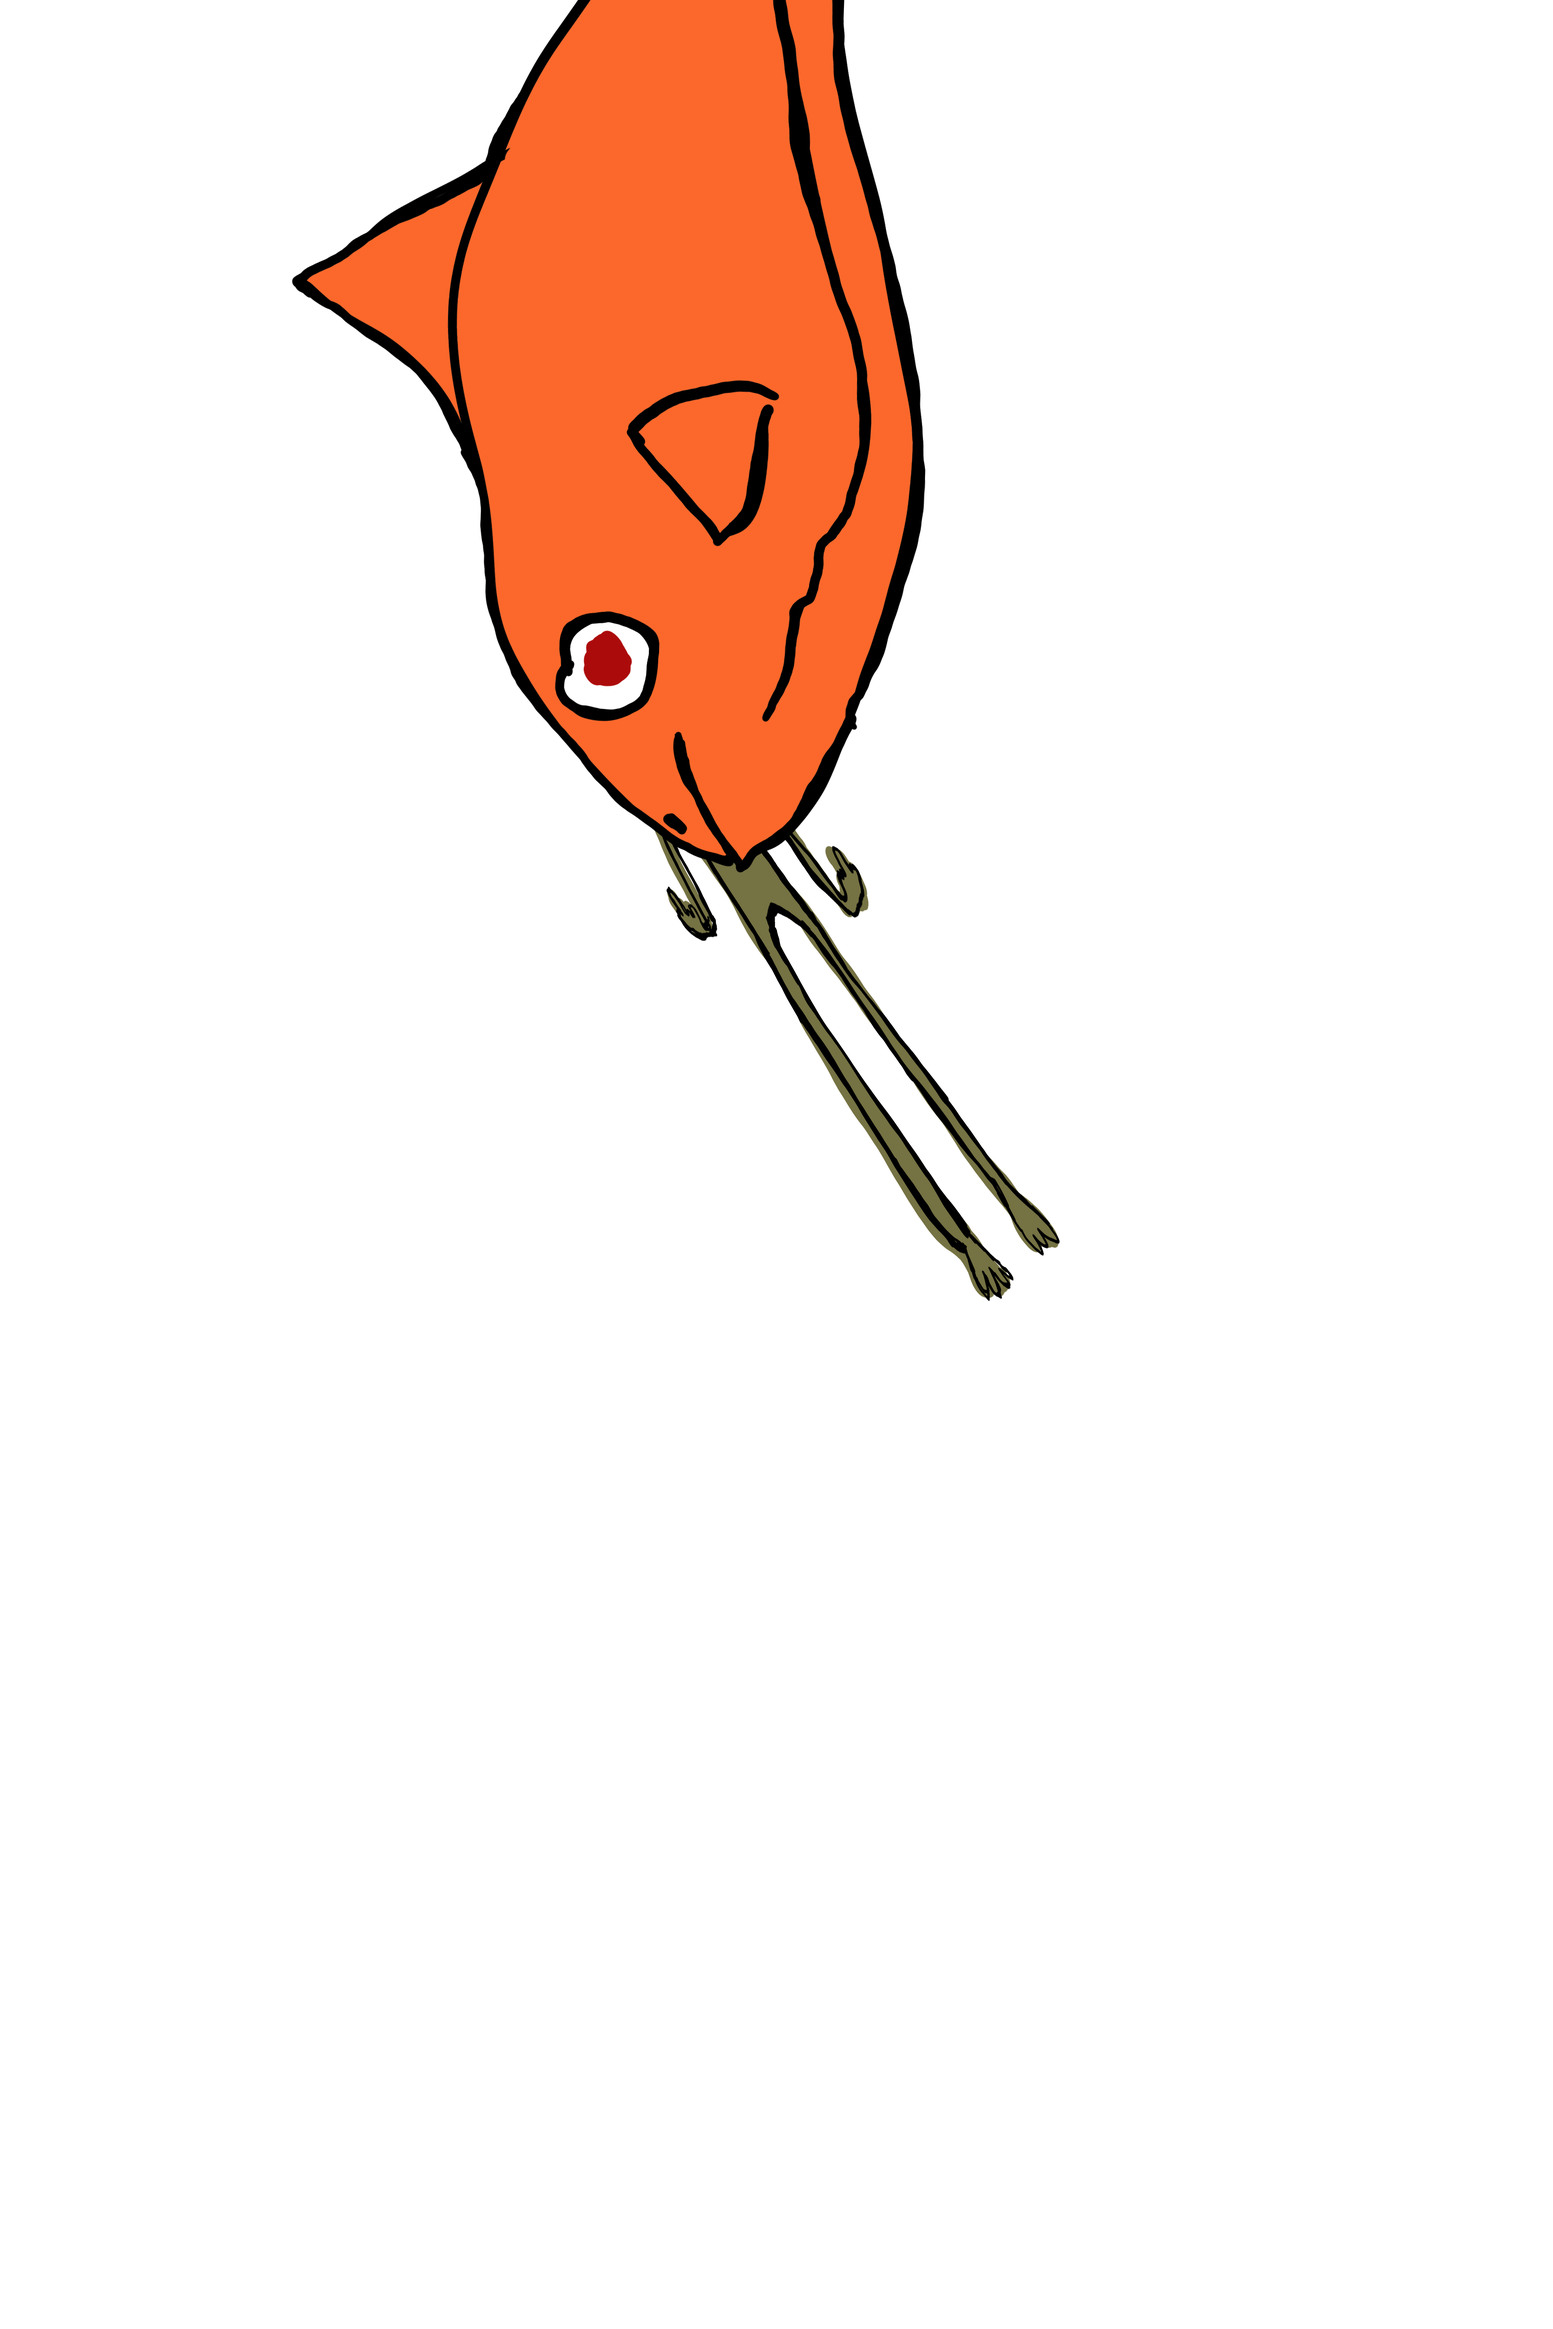
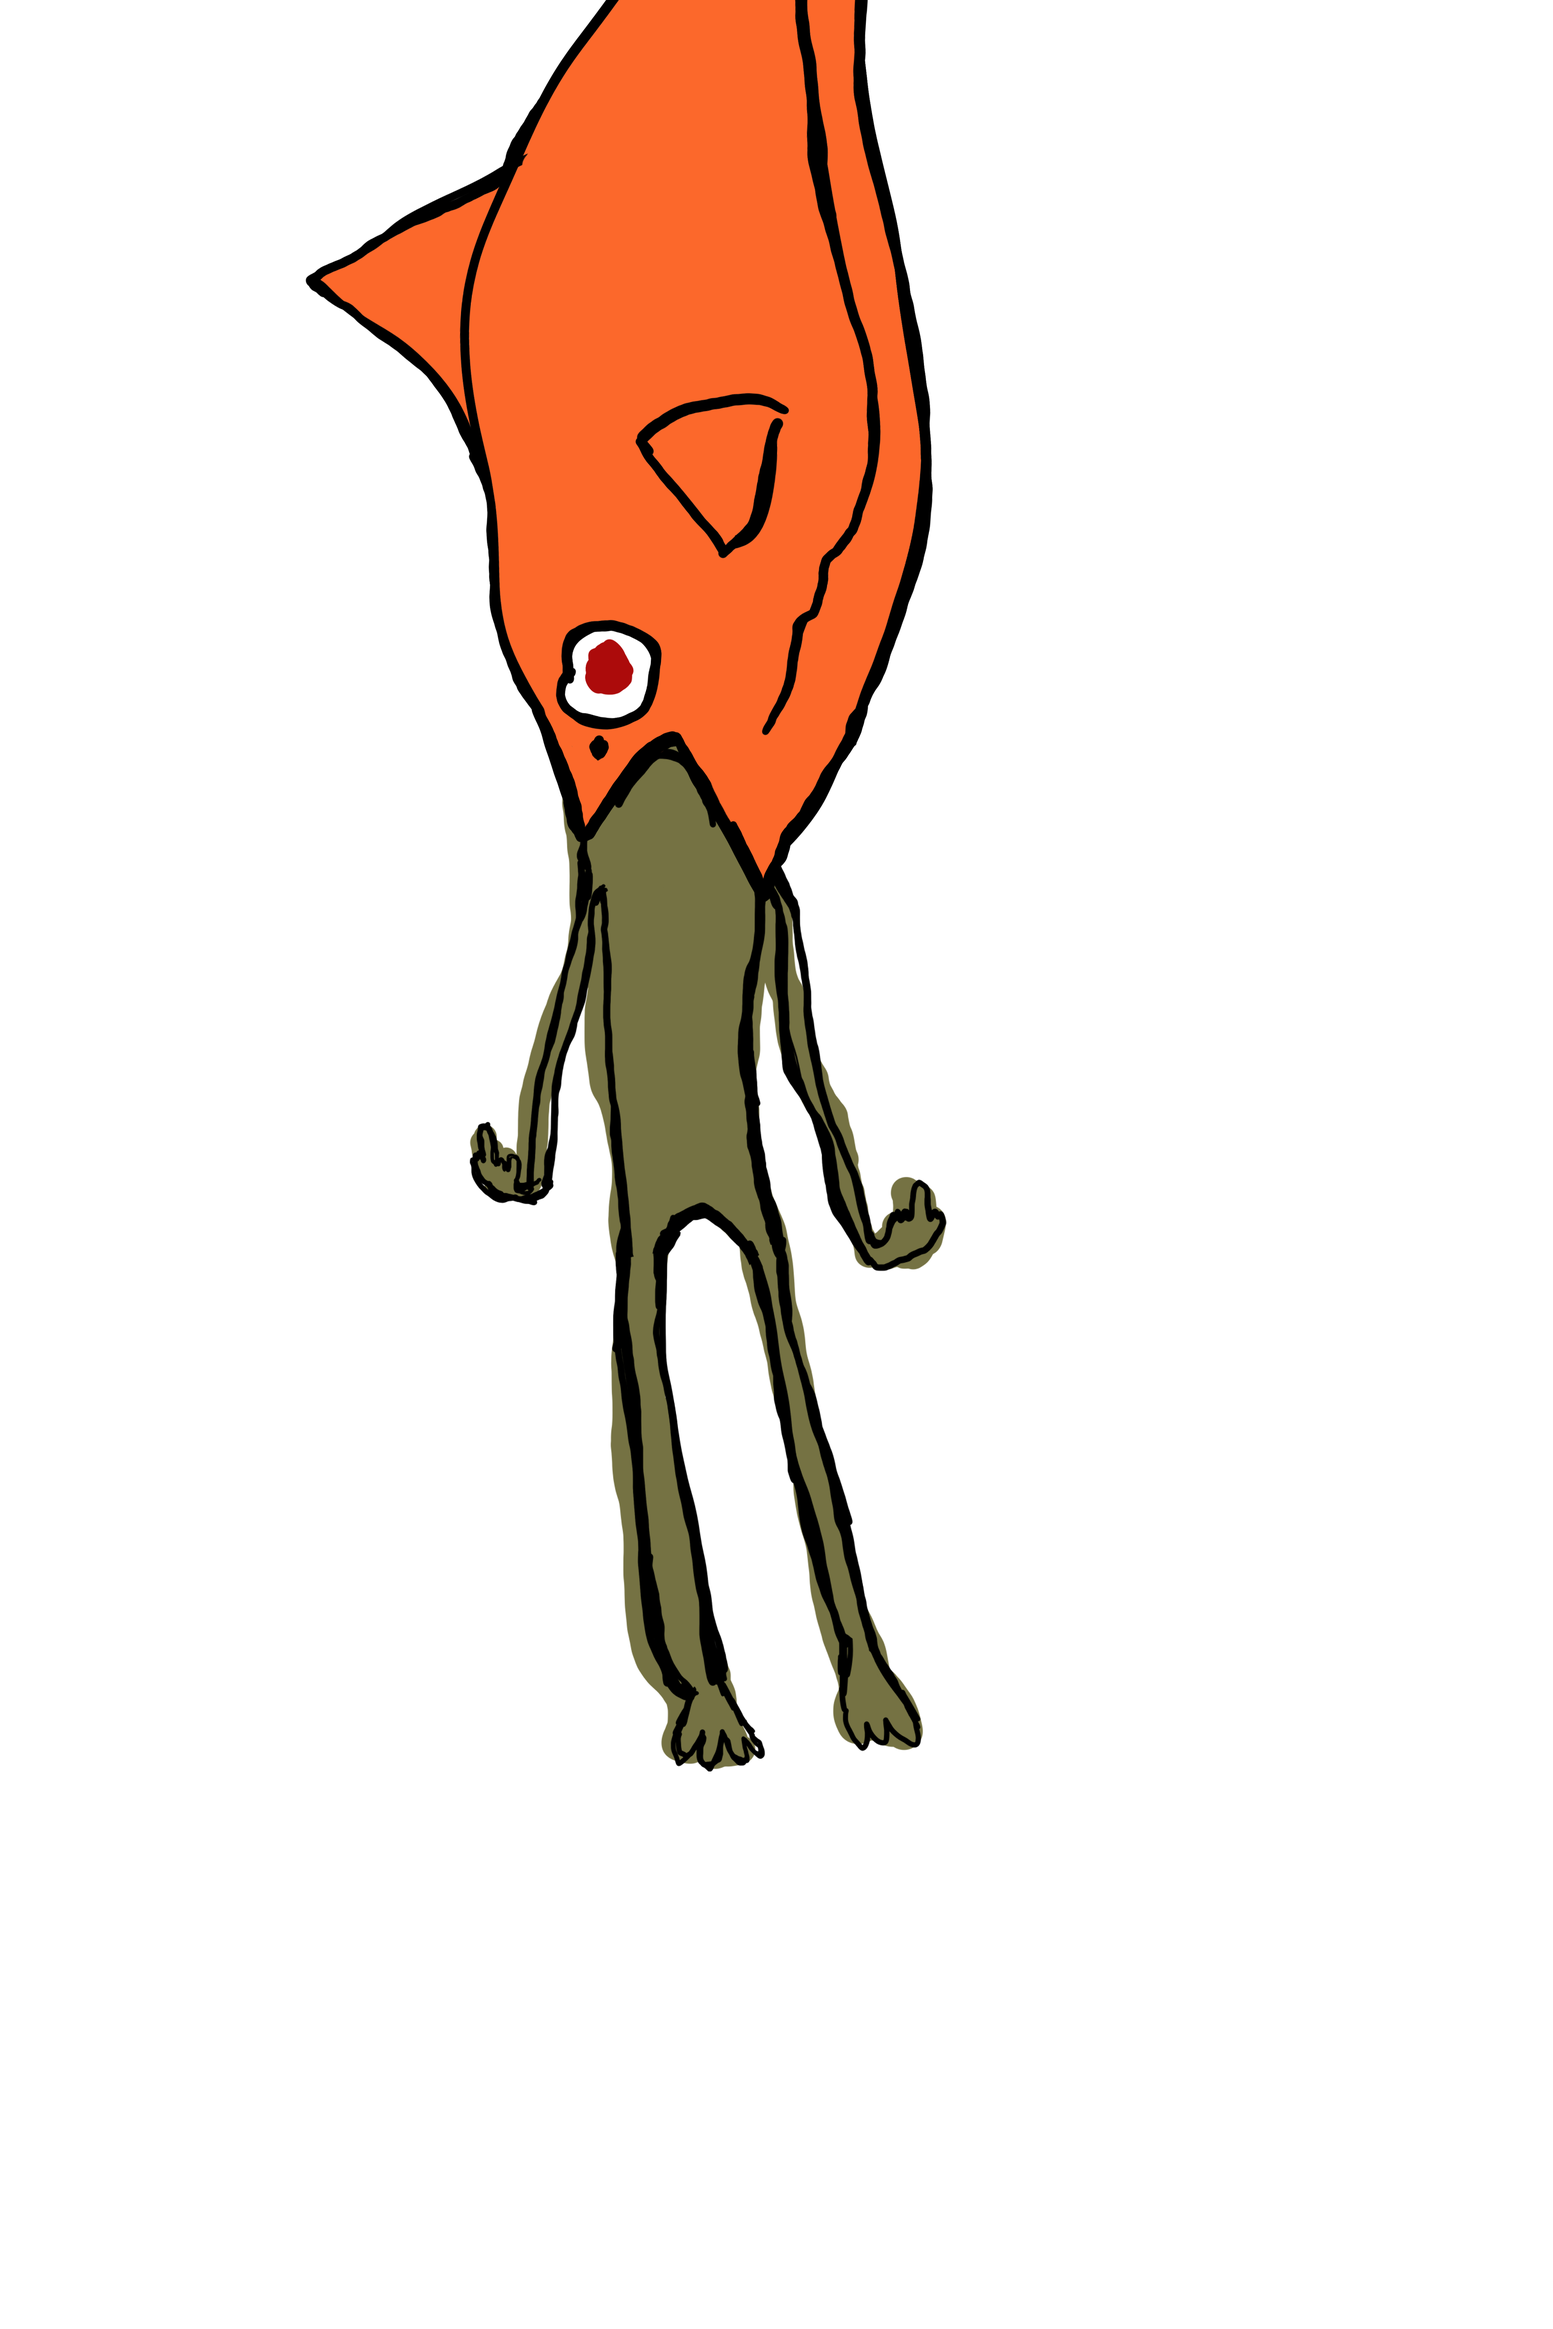
Added color
Added color to the background and did some more optomatiztion on the dessign

Changed region(s): [[0.2812, 0.0, 0.6875, 0.7812], [0.1875, 0.0, 0.4062, 0.2188]]

diff --git a/libraries/phenakistoscope.bundle.js b/libraries/phenakistoscope.bundle.js
@@ -1,3 +1,3 @@
-const FRAME_RATE = 22
+const FRAME_RATE = 20
 
 !function(e){var n={};function t(i){if(n[i])return n[i].exports;var o=n[i]={i:i,l:!1,exports:{}};return e[i].call(o.exports,o,o.exports,t),o.l=!0,o.exports}t.m=e,t.c=n,t.d=function(e,n,i){t.o(e,n)||Object.defineProperty(e,n,{enumerable:!0,get:i})},t.r=function(e){"undefined"!=typeof Symbol&&Symbol.toStringTag&&Object.defineProperty(e,Symbol.toStringTag,{value:"Module"}),Object.defineProperty(e,"__esModule",{value:!0})},t.t=function(e,n){if(1&n&&(e=t(e)),8&n)return e;if(4&n&&"object"==typeof e&&e&&e.__esModule)return e;var i=Object.create(null);if(t.r(i),Object.defineProperty(i,"default",{enumerable:!0,value:e}),2&n&&"string"!=typeof e)for(var o in e)t.d(i,o,function(n){return e[n]}.bind(null,o));return i},t.n=function(e){var n=e&&e.__esModule?function(){return e.default}:function(){return e};return t.d(n,"a",n),n},t.o=function(e,n){return Object.prototype.hasOwnProperty.call(e,n)},t.p="",t(t.s=0)}([function(e,n,t){e.exports=t(1)},function(e,n,t){"use strict";t.r(n);var i=new function(){this.phenakistoscope=void 0,this.ccapturer=void 0,this.p5=void 0,this.gfx=void 0,this.canvas=void 0};function o(e,n){for(var t=0;t<n.length;t++){var i=n[t];i.enumerable=i.enumerable||!1,i.configurable=!0,"value"in i&&(i.writable=!0),Object.defineProperty(e,i.key,i)}}var a=function(){function e(n){!function(e,n){if(!(e instanceof n))throw new TypeError("Cannot call a class as a function")}(this,e),this._total_images_to_load=0,this._loaded_images=0,this._images={},this._image_sequences={}}var n,t,a;return n=e,(t=[{key:"load_image",value:function(e,n){this._total_images_to_load++,this._images[e]=i.p5.loadImage("./assets/"+e+"."+n,this.image_loaded.bind(this))}},{key:"load_image_sequence",value:function(e,n,t){this._total_images_to_load+=t,this._image_sequences[e]=[];for(var i=0;i<t;++i)this._image_sequences[e][i]=loadImage("assets/"+e+"/"+e+"_"+i+"."+n,this.image_loaded.bind(this))}},{key:"draw_image",value:function(e,n,t,i){n.image(this._images[e],t,i)}},{key:"draw_image_from_sequence",value:function(e,n,t,i,o){var a=this._image_sequences[e].length,r=Math.floor(n*a)%a;t.image(this._image_sequences[e][r],i,o)}},{key:"all_images_loaded",value:function(){return this._loaded_images>=this._total_images_to_load}},{key:"image_loaded",value:function(){this._loaded_images++}}])&&o(n.prototype,t),a&&o(n,a),e}();function r(e,n){for(var t=0;t<n.length;t++){var i=n[t];i.enumerable=i.enumerable||!1,i.configurable=!0,"value"in i&&(i.writable=!0),Object.defineProperty(e,i.key,i)}}var s=function(){function e(n){!function(e,n){if(!(e instanceof n))throw new TypeError("Cannot call a class as a function")}(this,e),this._resolution=n,this._output_function=function(){},this._image_loader=new a,this._ccapturer=i.ccapturer,this._dynamic_scale=!1,this._lock_scale=!1,this._pre_render=function(){},this._post_render=function(){},this._draw_slits=!1}var n,t,o;return n=e,(t=[{key:"set_default_values",value:function(e){this._layers=[],this._resolution=e,this._wedge_size=1e3,this._print=!1,this._capture_frame=0,this._slice_count=20,this._direction=-1}},{key:"scale_for_screen",value:function(e){(e=void 0===e||e)&&!this._lock_scale?(setup_new_canvas(min(window.innerWidth,window.innerHeight),min(window.innerWidth,window.innerHeight)),this._dynamic_scale||(window.addEventListener("resize",this.scale_for_screen.bind(this)),this._dynamic_scale=!0)):(window.removeEventListener("resize",this.scale_for_screen.bind(this)),this._dynamic_scale=!1)}},{key:"draw",value:function(){if(this._image_loader.all_images_loaded()){this._pre_render();for(var e=0;e<this._layers.length;e++)this._current_layer=e,push(),this._layers[e].draw_boundaries=this._show_boundaries,this._output_function(this._layers[e]),pop();this._post_render()}}},{key:"render_slits",value:function(){if(this._draw_slits){push(),rotate(-90),stroke(0),noFill(),scale(.5),rotate(360/this._slice_count/2);for(var e=0;e<this._slice_count;e++)rotate(360/this._slice_count),rect(this._wedge_size-this._wedge_size/3,-15,this._wedge_size/3+50,30);pop()}}},{key:"draw_disk_mask",value:function(){push(),fill(255),stroke(0),strokeWeight(this.display_scale),beginShape(),vertex(-10,-10),vertex(width+10,-10),vertex(width+10,height+10),vertex(-10,height+10),beginContour();for(var e=this._wedge_size/2*this.display_scale,n=0;n<100;++n)vertex(width/2+cos(3.6*-n)*e,height/2+sin(3.6*-n)*e);endContour(),endShape(),pop()}},{key:"add_layer",value:function(e){this._layers.push(e),e.parent_pScope=this}},{key:"output_mode",value:function(e){this._output_function=e}},{key:"begin_capture_if_ready",value:function(){0==this._capture_frame&&this._ccapturer.start()}},{key:"capture",value:function(){this._capture_frame<this.slice_count?(this._ccapturer.capture(i.canvas),this._capture_frame++):this._capture_frame>=this.slice_count&&(this._ccapturer.stop(),this._ccapturer.save())}},{key:"set_direction",value:function(e){this._direction=e}},{key:"set_slice_count",value:function(e){this._slice_count=e}},{key:"draw_layer_boundaries",value:function(e){this._show_boundaries=e}},{key:"draw_slits",value:function(e){this._draw_slits=e}},{key:"fill_background",value:function(){var e;(e=this._layers[this._current_layer]).fill_background.apply(e,arguments)}},{key:"load_image",value:function(e,n){this._image_loader.load_image(e,n)}},{key:"load_image_sequence",value:function(e,n,t){this._image_loader.load_image_sequence(e,n,t)}},{key:"draw_image",value:function(e,n,t){this._image_loader.draw_image(e,i.p5,n,t)}},{key:"draw_image_from_sequence",value:function(e,n,t,o){this._image_loader.draw_image_from_sequence(e,o,i.p5,n,t)}},{key:"print",set:function(e){this._print=e},get:function(){return this._print}},{key:"pre_render",set:function(e){this._pre_render=e}},{key:"post_render",set:function(e){this._post_render=e}},{key:"lock_scale",set:function(e){this._lock_scale=e}},{key:"resolution",get:function(){return this._resolution}},{key:"frame",get:function(){return this._frame}},{key:"slice_count",get:function(){return this._slice_count}},{key:"direction",get:function(){return this._direction}},{key:"display_scale",get:function(){return this._print?1:this._resolution/(this._wedge_size+0)}},{key:"slice_angle",get:function(){return 360/this._slice_count}},{key:"wedge_size",get:function(){return this._wedge_size}}])&&r(n.prototype,t),o&&r(n,o),e}(),u=function(e){return function(n){var t,i,o;push(),c(e),n.set_animation_variables(0),push(),n.draw_function(0,0,e),pop(),t=0,i=0,o=2,push(),stroke(255,0,0),line(t,i,t-o,i-o),line(t,i,t+o,i-o),line(t,i,t-o,i+o),line(t,i,t+o,i+o),pop(),pop()}},_=function(e){return function(n,t){t=void 0===t?0:t,push(),c(e),rotate(t),function(e,n){push(),scale(.5);for(var t=e.slice_angle,i=0;i<e.slice_count;i++)push(),rotate(i*t),l(e,n,i),pop();pop()}(e,n),pop(),push(),c(e),e.render_slits(),pop(),push(),e.draw_disk_mask(),pop()}};function c(e){translate(width/2,height/2),scale(e.display_scale,e.display_scale)}function l(e,n,t){push(),n.animation_function(t,n.boundary.low,n.boundary.high),pop(),n.draw_boundry()}var d=function(e){return function(n){push(),this.set_animation_variables(n/(e.slice_count+0)),this.background_function(this.animation_variables,e),this.draw_function(0,0,this.animation_variables,e),pop()}};function h(e){return(h="function"==typeof Symbol&&"symbol"==typeof Symbol.iterator?function(e){return typeof e}:function(e){return e&&"function"==typeof Symbol&&e.constructor===Symbol&&e!==Symbol.prototype?"symbol":typeof e})(e)}function f(e,n){for(var t=0;t<n.length;t++){var i=n[t];i.enumerable=i.enumerable||!1,i.configurable=!0,"value"in i&&(i.writable=!0),Object.defineProperty(e,i.key,i)}}function p(){}var y=function(){function e(n){for(var t=this,o=arguments.length,a=new Array(o>1?o-1:0),r=1;r<o;r++)a[r-1]=arguments[r];!function(e,n){if(!(e instanceof n))throw new TypeError("Cannot call a class as a function")}(this,e),n=n||p,this._draw_function=n.bind(this);var s=h(a[0]);this._background_function="function"===s?a[0].bind(this):"undefined"!==s?function(){var e;return(e=t.fill_background).call.apply(e,[t].concat(a))}:function(){},this._animation_function=d(i.phenakistoscope).bind(this),this._do_draw_boundaries=!0,this.set_boundary(0,1e3),i.phenakistoscope.add_layer(this)}var n,t,o;return n=e,(t=[{key:"set_boundary",value:function(e,n){this._bounds={low:e,high:n}}},{key:"set_animation_variables",value:function(e){this._animation_variables={frame:e,wave:function(n){return n=void 0===n?1:n,(i.p5.sin(360*e*n)+1)/2}}}},{key:"mode",value:function(e){this._animation_function=e.bind(this)}},{key:"fill_background",value:function(){push(),fill.apply(void 0,arguments),stroke.apply(void 0,arguments),this.draw_wedge(),pop()}},{key:"draw_boundry",value:function(){this._do_draw_boundaries&&(noFill(),stroke(0),this.draw_wedge())}},{key:"draw_wedge",value:function(){push(),rotate(-90),beginShape(),this.arc(this.boundary.high,1),this.arc(this.boundary.low,-1),endShape(i.p5.CLOSE),pop()}},{key:"arc",value:function(e,n){for(var t=-n*this._pScope.slice_angle/2,i=n*this._pScope.slice_angle/20,o=0;o<=20;++o)vertex(cos(t)*e,sin(t)*e),t+=i}},{key:"parent_pScope",set:function(e){this._pScope=e}},{key:"draw_boundaries",set:function(e){this._do_draw_boundaries=e}},{key:"draw_function",get:function(){return this._draw_function}},{key:"animation_function",get:function(){return this._animation_function}},{key:"background_function",get:function(){return this._background_function}},{key:"boundary",get:function(){return this._bounds}},{key:"animation_variables",get:function(){return this._animation_variables}}])&&f(n.prototype,t),o&&f(n,o),e}(),w=function(e){window.PLayer=y,window.SYMBOL_ONLY=u(e),window.STATIC_FRAME=function(e){return function(n){push(),c(e),translate(0,e._wedge_size/2),n.draw_boundry(),n.animation_function(0,n.boundary.low,n.boundary.high),pop()}}(e),window.ANIMATED_FRAME=function(e){return function(n){push(),c(e),translate(0,e._wedge_size/2),n.draw_boundry(),n.animation_function(frameCount%e.slice_count,n.boundary.low,n.boundary.high),pop()}}(e),window.STATIC_DISK=_(e),window.ANIMATED_DISK=function(e){return function(n){push();var t=frameCount%e.slice_count;STATIC_DISK(n,e.direction*e.slice_angle*t),pop()}}(e),window.OUTPUT_GIF=function(e){return function(n){return setup_new_canvas(n,n),e.scale_for_screen(!1),e.lock_scale=!0,e.pre_render=function(){e.begin_capture_if_ready()},e.post_render=function(){e.capture()},function(e){ANIMATED_DISK(e)}}}(e),window.OUTPUT_PRINT=function(e){return function(n){return n=void 0===n?{x:2480,y:3508}:n,setup_new_canvas(n.x,n.y),e.scale_for_screen(!1),e.lock_scale=!0,function(e){push(),STATIC_DISK(e,0),pop()}}}(e),window.SWIRL=function(e){return function(n){return function(t,i,o){var a=(o-i)/(n+0);this.set_animation_variables(t/e.slice_count),this.background_function(this.animation_variables,e);for(var r=0;r<n;++r){var s=-(i+(r*a+lerp(0,a,t/e.slice_count)));this.set_animation_variables((abs(s)-i)/abs(o-i)),push(),translate(0,s),this.draw_function(0,0,this.animation_variables,e),pop()}}}}(e),window.RING=d(e),window.CW=1,window.CCW=-1,window.A4={x:2480,y:3508},window.A3={x:3508,y:4960}},g=new p5;window.setup=function(){angleMode(DEGREES),imageMode(CENTER),frameRate(FRAME_RATE),pixelDensity(1),i.ccapturer=new CCapture({format:"gif",workersPath:"./libraries/",framerate:FRAME_RATE,verbose:!0}),i.phenakistoscope=new s(1e3),w(i.phenakistoscope),setup_new_canvas(i.phenakistoscope.resolution,i.phenakistoscope.resolution),setup_pScope(i.phenakistoscope)},window.draw=function(){background(255),i.phenakistoscope.draw()},window.setup_new_canvas=function(e,n){i.p5=g,i.gfx=createCanvas(e,n).drawingContext,i.canvas=i.gfx.canvas;var t=Math.min(e,n);i.phenakistoscope.set_default_values(.9*t),setup_layers(i.phenakistoscope)}}]);

diff --git a/my_phenakistoscope.js b/my_phenakistoscope.js
@@ -1,20 +1,26 @@
-const SLICE_COUNT = 12;
+const SLICE_COUNT = 14;
 
 function setup_pScope(pScope){
-  pScope.output_mode(ANIMATED_DISK);
+  //pScope.output_mode(ANIMATED_DISK);
+  pScope.output_mode(STATIC_DISK);
   pScope.scale_for_screen(true);
   pScope.draw_layer_boundaries(true);
   pScope.set_direction(CCW);
   pScope.set_slice_count(SLICE_COUNT);
-  pScope.load_image_sequence("frogTest" , "png", 12)
+  pScope.load_image_sequence("frogTest" , "png", 14)
 }
 
 
+//background(119,77,32) brown
+//background(179,85,133) pink
+//background(27,107,95) blue
 
 
 function setup_layers(pScope){
+  
+  
 
-     new PLayer(null, 255);  //lets us draw the whole circle background, ignoring the boundaries
+     new PLayer(null, 179,85,133);  //lets us draw the whole circle background, ignoring the boundaries
   
      var layer1 = new PLayer(frogTest);
      layer1.mode(RING)
